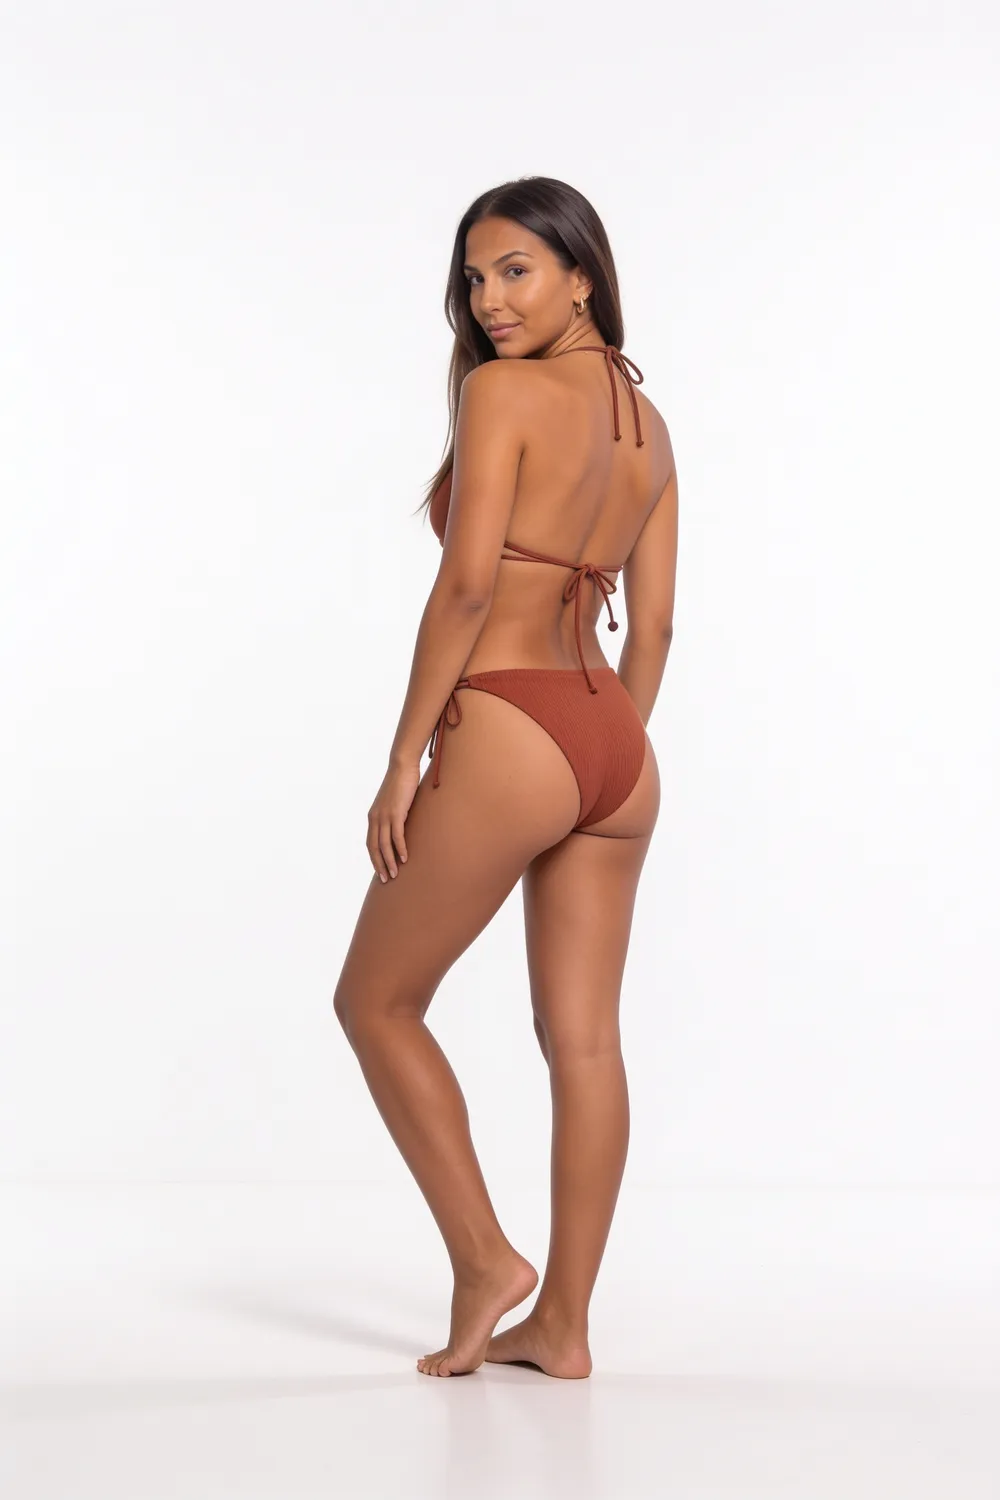
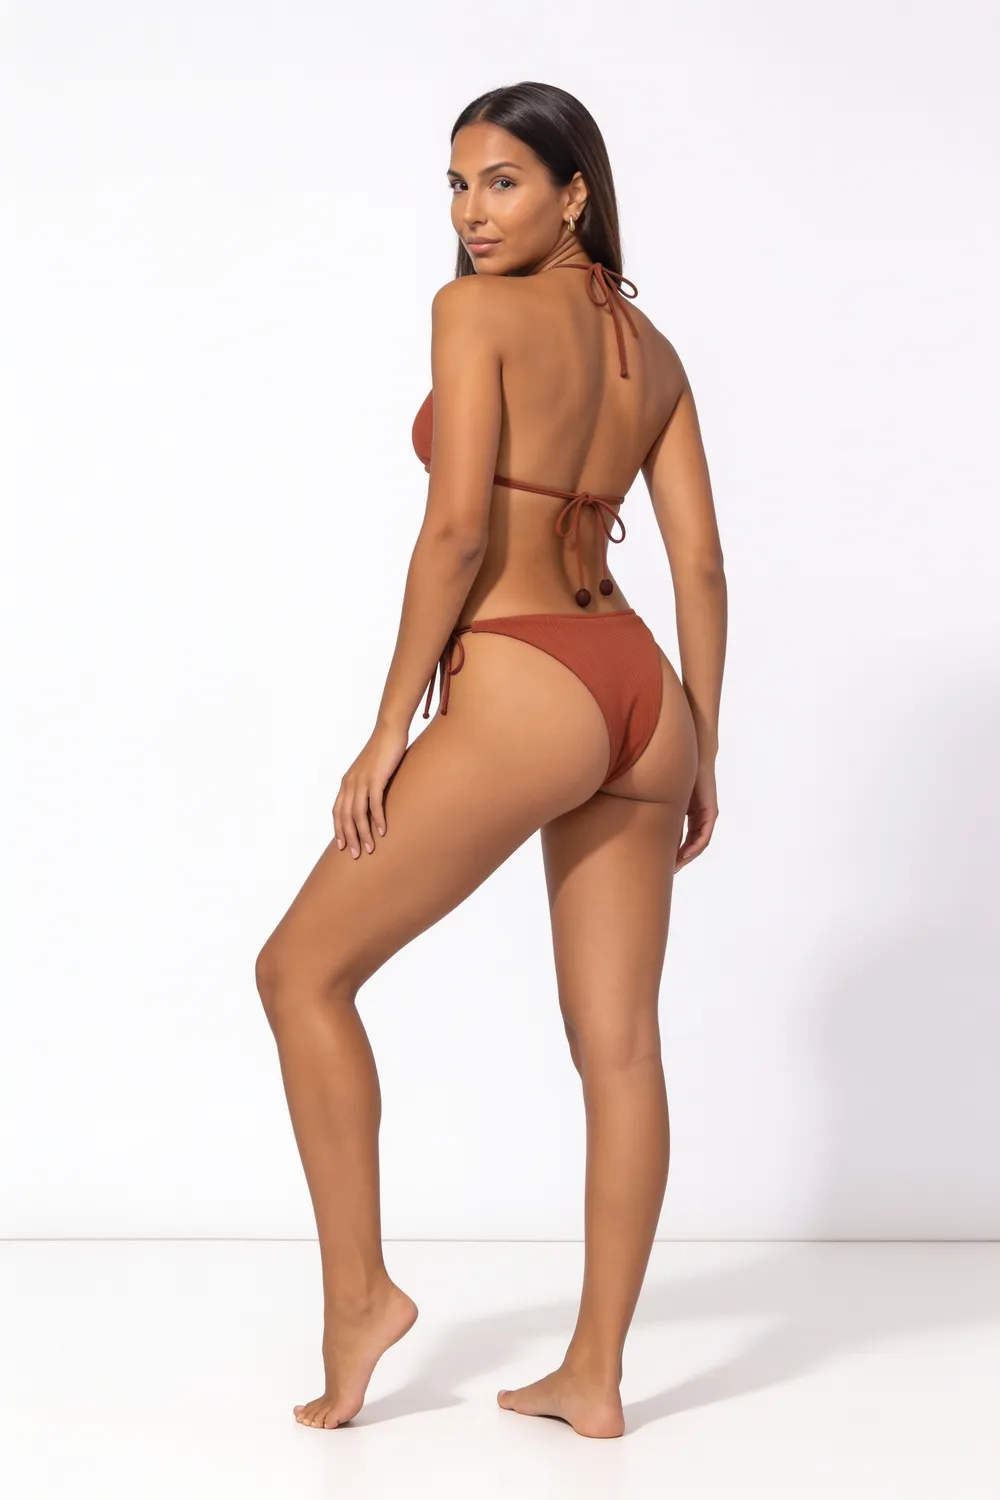
Fiches produit : dos de Sofia corrigé (une seule bride), libellé Mei (triangle à nouer)

Changed region(s): [[0.0, 0.0307, 1.0, 1.0]]

diff --git a/fr/index.html b/fr/index.html
@@ -278,7 +278,7 @@ section[id]{scroll-margin-top:68px}
    <div class="frow"><figure><img src="../img/fiches/elin-0.webp" alt="Elin · Product" loading="lazy"><figcaption><span data-en>Product</span><span data-fr>Produit</span></figcaption></figure><figure><img src="../img/fiches/elin-1.webp" alt="Elin · Front" loading="lazy"><figcaption><span data-en>Front</span><span data-fr>Face</span></figcaption></figure><figure><img src="../img/fiches/elin-2.webp" alt="Elin · Back" loading="lazy"><figcaption><span data-en>Back</span><span data-fr>Dos</span></figcaption></figure><figure><img src="../img/fiches/elin-3.webp" alt="Elin · Side" loading="lazy"><figcaption><span data-en>Side</span><span data-fr>Profil</span></figcaption></figure><figure><img src="../img/fiches/elin-4.webp" alt="Elin · Detail" loading="lazy"><figcaption><span data-en>Detail</span><span data-fr>Détail</span></figcaption></figure></div></div>
   <div class="fiche"><h3>Amara</h3><div class="sw"><span data-en>Bandeau bikini · sunshine yellow</span><span data-fr>Bikini bandeau · jaune soleil</span></div>
    <div class="frow"><figure><img src="../img/fiches/amara-0.webp" alt="Amara · Product" loading="lazy"><figcaption><span data-en>Product</span><span data-fr>Produit</span></figcaption></figure><figure><img src="../img/fiches/amara-1.webp" alt="Amara · Front" loading="lazy"><figcaption><span data-en>Front</span><span data-fr>Face</span></figcaption></figure><figure><img src="../img/fiches/amara-2.webp" alt="Amara · Back" loading="lazy"><figcaption><span data-en>Back</span><span data-fr>Dos</span></figcaption></figure><figure><img src="../img/fiches/amara-3.webp" alt="Amara · Side" loading="lazy"><figcaption><span data-en>Side</span><span data-fr>Profil</span></figcaption></figure><figure><img src="../img/fiches/amara-4.webp" alt="Amara · Detail" loading="lazy"><figcaption><span data-en>Detail</span><span data-fr>Détail</span></figcaption></figure></div></div>
-  <div class="fiche"><h3>Mei</h3><div class="sw"><span data-en>String bikini · cobalt</span><span data-fr>Bikini string · cobalt</span></div>
+  <div class="fiche"><h3>Mei</h3><div class="sw"><span data-en>Tie-side triangle bikini · cobalt</span><span data-fr>Bikini triangle à nouer · cobalt</span></div>
    <div class="frow"><figure><img src="../img/fiches/mei-0.webp" alt="Mei · Product" loading="lazy"><figcaption><span data-en>Product</span><span data-fr>Produit</span></figcaption></figure><figure><img src="../img/fiches/mei-1.webp" alt="Mei · Front" loading="lazy"><figcaption><span data-en>Front</span><span data-fr>Face</span></figcaption></figure><figure><img src="../img/fiches/mei-2.webp" alt="Mei · Back" loading="lazy"><figcaption><span data-en>Back</span><span data-fr>Dos</span></figcaption></figure><figure><img src="../img/fiches/mei-3.webp" alt="Mei · Side" loading="lazy"><figcaption><span data-en>Side</span><span data-fr>Profil</span></figcaption></figure><figure><img src="../img/fiches/mei-4.webp" alt="Mei · Detail" loading="lazy"><figcaption><span data-en>Detail</span><span data-fr>Détail</span></figcaption></figure></div></div>
   <div class="fiche"><h3>Maya</h3><div class="sw"><span data-en>High-waisted bikini · emerald</span><span data-fr>Bikini taille haute · émeraude</span></div>
    <div class="frow"><figure><img src="../img/fiches/maya-0.webp" alt="Maya · Product" loading="lazy"><figcaption><span data-en>Product</span><span data-fr>Produit</span></figcaption></figure><figure><img src="../img/fiches/maya-1.webp" alt="Maya · Front" loading="lazy"><figcaption><span data-en>Front</span><span data-fr>Face</span></figcaption></figure><figure><img src="../img/fiches/maya-2.webp" alt="Maya · Back" loading="lazy"><figcaption><span data-en>Back</span><span data-fr>Dos</span></figcaption></figure><figure><img src="../img/fiches/maya-3.webp" alt="Maya · Side" loading="lazy"><figcaption><span data-en>Side</span><span data-fr>Profil</span></figcaption></figure><figure><img src="../img/fiches/maya-4.webp" alt="Maya · Detail" loading="lazy"><figcaption><span data-en>Detail</span><span data-fr>Détail</span></figcaption></figure></div></div>
@@ -366,7 +366,7 @@ section[id]{scroll-margin-top:68px}
 </footer>
 
 <script>
-const ASSET_V="202609290959";
+const ASSET_V="202609291009";
 const BOOKS={
  sofia:{name:"Sofia",imgs:["sofia-portrait","sofia-1","sofia-bijoux-cou","sofia-2","sofia-3","sofia-bijoux-mains","sofia-4","sofia-bijoux-montre","sofia-5","sofia-bijoux-oreille","sofia-maldives","sofia-heliport"],video:"../video/sofia-monaco.mp4"},
  elin:{name:"Elin",imgs:["elin-portrait","elin-1","elin-bijoux-cou","elin-2","elin-3","elin-bijoux-mains","elin-4","elin-bijoux-montre","elin-5","elin-bijoux-oreille","elin-ny","elin-alpes"],video:"../video/elin-monaco.mp4"},

diff --git a/index.html b/index.html
@@ -276,7 +276,7 @@ section[id]{scroll-margin-top:68px}
    <div class="frow"><figure><img src="img/fiches/elin-0.webp" alt="Elin · Product" loading="lazy"><figcaption><span data-en>Product</span><span data-fr>Produit</span></figcaption></figure><figure><img src="img/fiches/elin-1.webp" alt="Elin · Front" loading="lazy"><figcaption><span data-en>Front</span><span data-fr>Face</span></figcaption></figure><figure><img src="img/fiches/elin-2.webp" alt="Elin · Back" loading="lazy"><figcaption><span data-en>Back</span><span data-fr>Dos</span></figcaption></figure><figure><img src="img/fiches/elin-3.webp" alt="Elin · Side" loading="lazy"><figcaption><span data-en>Side</span><span data-fr>Profil</span></figcaption></figure><figure><img src="img/fiches/elin-4.webp" alt="Elin · Detail" loading="lazy"><figcaption><span data-en>Detail</span><span data-fr>Détail</span></figcaption></figure></div></div>
   <div class="fiche"><h3>Amara</h3><div class="sw"><span data-en>Bandeau bikini · sunshine yellow</span><span data-fr>Bikini bandeau · jaune soleil</span></div>
    <div class="frow"><figure><img src="img/fiches/amara-0.webp" alt="Amara · Product" loading="lazy"><figcaption><span data-en>Product</span><span data-fr>Produit</span></figcaption></figure><figure><img src="img/fiches/amara-1.webp" alt="Amara · Front" loading="lazy"><figcaption><span data-en>Front</span><span data-fr>Face</span></figcaption></figure><figure><img src="img/fiches/amara-2.webp" alt="Amara · Back" loading="lazy"><figcaption><span data-en>Back</span><span data-fr>Dos</span></figcaption></figure><figure><img src="img/fiches/amara-3.webp" alt="Amara · Side" loading="lazy"><figcaption><span data-en>Side</span><span data-fr>Profil</span></figcaption></figure><figure><img src="img/fiches/amara-4.webp" alt="Amara · Detail" loading="lazy"><figcaption><span data-en>Detail</span><span data-fr>Détail</span></figcaption></figure></div></div>
-  <div class="fiche"><h3>Mei</h3><div class="sw"><span data-en>String bikini · cobalt</span><span data-fr>Bikini string · cobalt</span></div>
+  <div class="fiche"><h3>Mei</h3><div class="sw"><span data-en>Tie-side triangle bikini · cobalt</span><span data-fr>Bikini triangle à nouer · cobalt</span></div>
    <div class="frow"><figure><img src="img/fiches/mei-0.webp" alt="Mei · Product" loading="lazy"><figcaption><span data-en>Product</span><span data-fr>Produit</span></figcaption></figure><figure><img src="img/fiches/mei-1.webp" alt="Mei · Front" loading="lazy"><figcaption><span data-en>Front</span><span data-fr>Face</span></figcaption></figure><figure><img src="img/fiches/mei-2.webp" alt="Mei · Back" loading="lazy"><figcaption><span data-en>Back</span><span data-fr>Dos</span></figcaption></figure><figure><img src="img/fiches/mei-3.webp" alt="Mei · Side" loading="lazy"><figcaption><span data-en>Side</span><span data-fr>Profil</span></figcaption></figure><figure><img src="img/fiches/mei-4.webp" alt="Mei · Detail" loading="lazy"><figcaption><span data-en>Detail</span><span data-fr>Détail</span></figcaption></figure></div></div>
   <div class="fiche"><h3>Maya</h3><div class="sw"><span data-en>High-waisted bikini · emerald</span><span data-fr>Bikini taille haute · émeraude</span></div>
    <div class="frow"><figure><img src="img/fiches/maya-0.webp" alt="Maya · Product" loading="lazy"><figcaption><span data-en>Product</span><span data-fr>Produit</span></figcaption></figure><figure><img src="img/fiches/maya-1.webp" alt="Maya · Front" loading="lazy"><figcaption><span data-en>Front</span><span data-fr>Face</span></figcaption></figure><figure><img src="img/fiches/maya-2.webp" alt="Maya · Back" loading="lazy"><figcaption><span data-en>Back</span><span data-fr>Dos</span></figcaption></figure><figure><img src="img/fiches/maya-3.webp" alt="Maya · Side" loading="lazy"><figcaption><span data-en>Side</span><span data-fr>Profil</span></figcaption></figure><figure><img src="img/fiches/maya-4.webp" alt="Maya · Detail" loading="lazy"><figcaption><span data-en>Detail</span><span data-fr>Détail</span></figcaption></figure></div></div>
@@ -364,7 +364,7 @@ section[id]{scroll-margin-top:68px}
 </footer>
 
 <script>
-const ASSET_V="202609290959";
+const ASSET_V="202609291009";
 const BOOKS={
  sofia:{name:"Sofia",imgs:["sofia-portrait","sofia-1","sofia-bijoux-cou","sofia-2","sofia-3","sofia-bijoux-mains","sofia-4","sofia-bijoux-montre","sofia-5","sofia-bijoux-oreille","sofia-maldives","sofia-heliport"],video:"video/sofia-monaco.mp4"},
  elin:{name:"Elin",imgs:["elin-portrait","elin-1","elin-bijoux-cou","elin-2","elin-3","elin-bijoux-mains","elin-4","elin-bijoux-montre","elin-5","elin-bijoux-oreille","elin-ny","elin-alpes"],video:"video/elin-monaco.mp4"},
